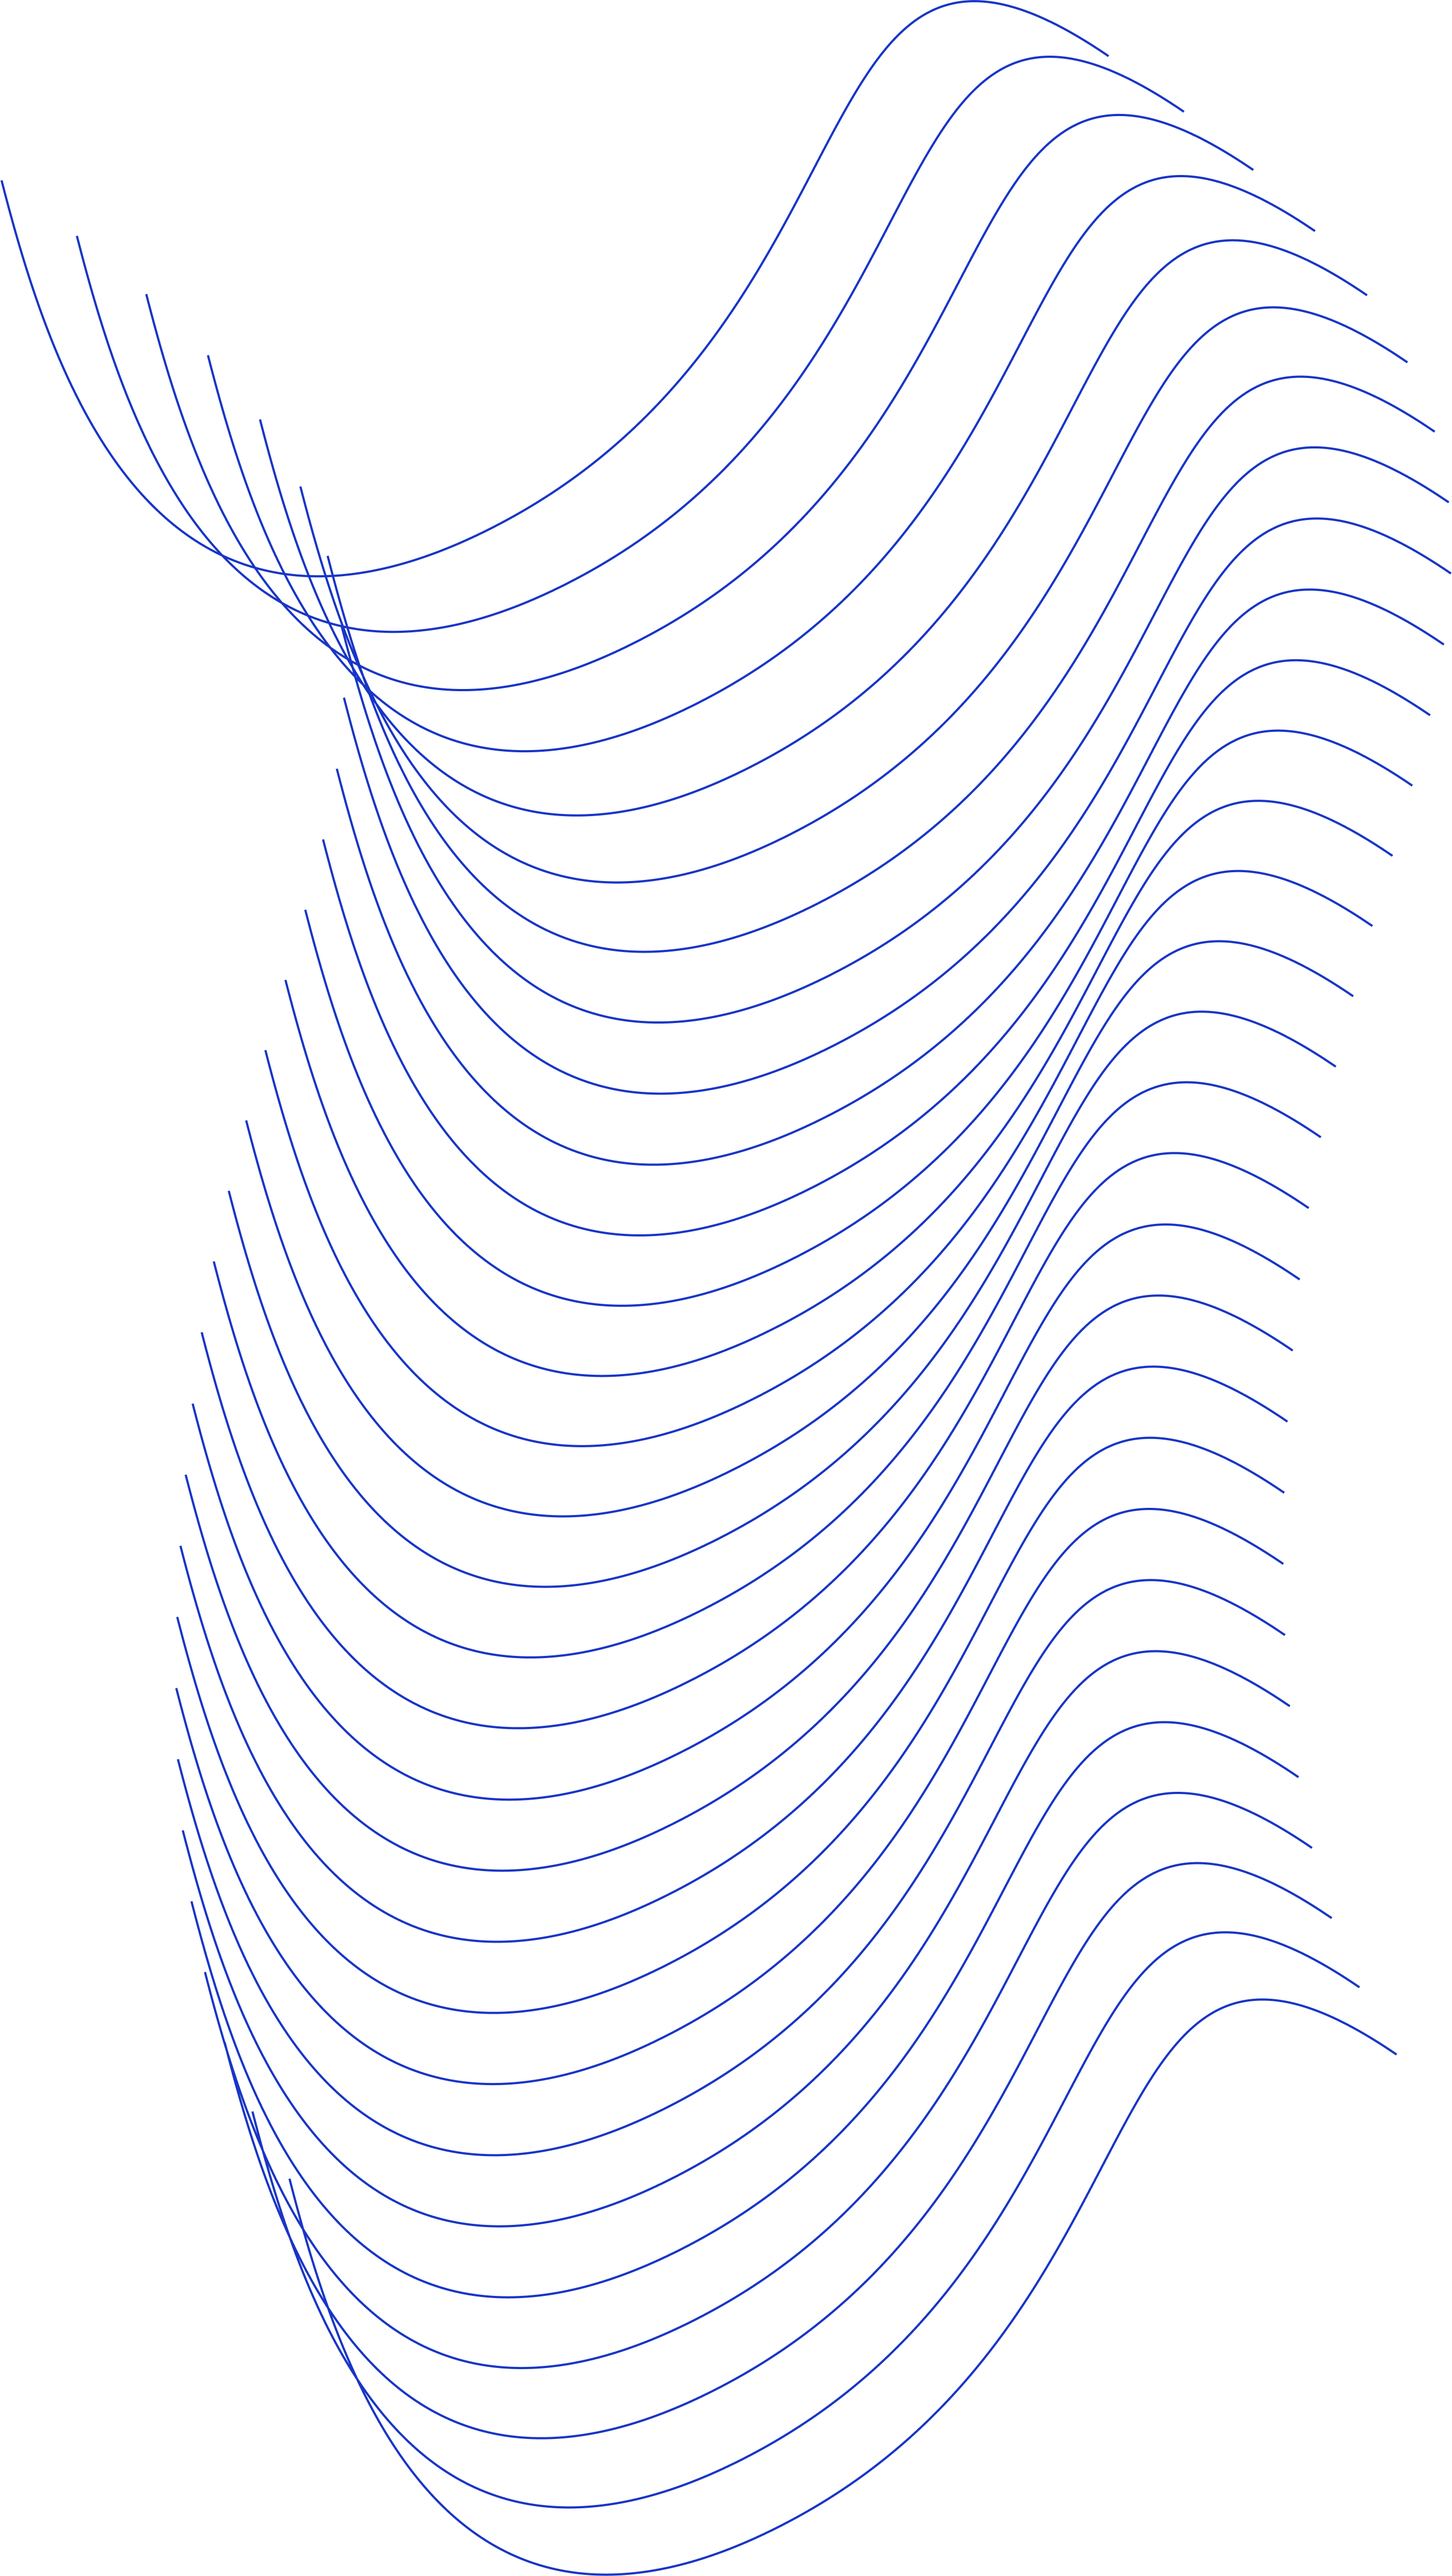
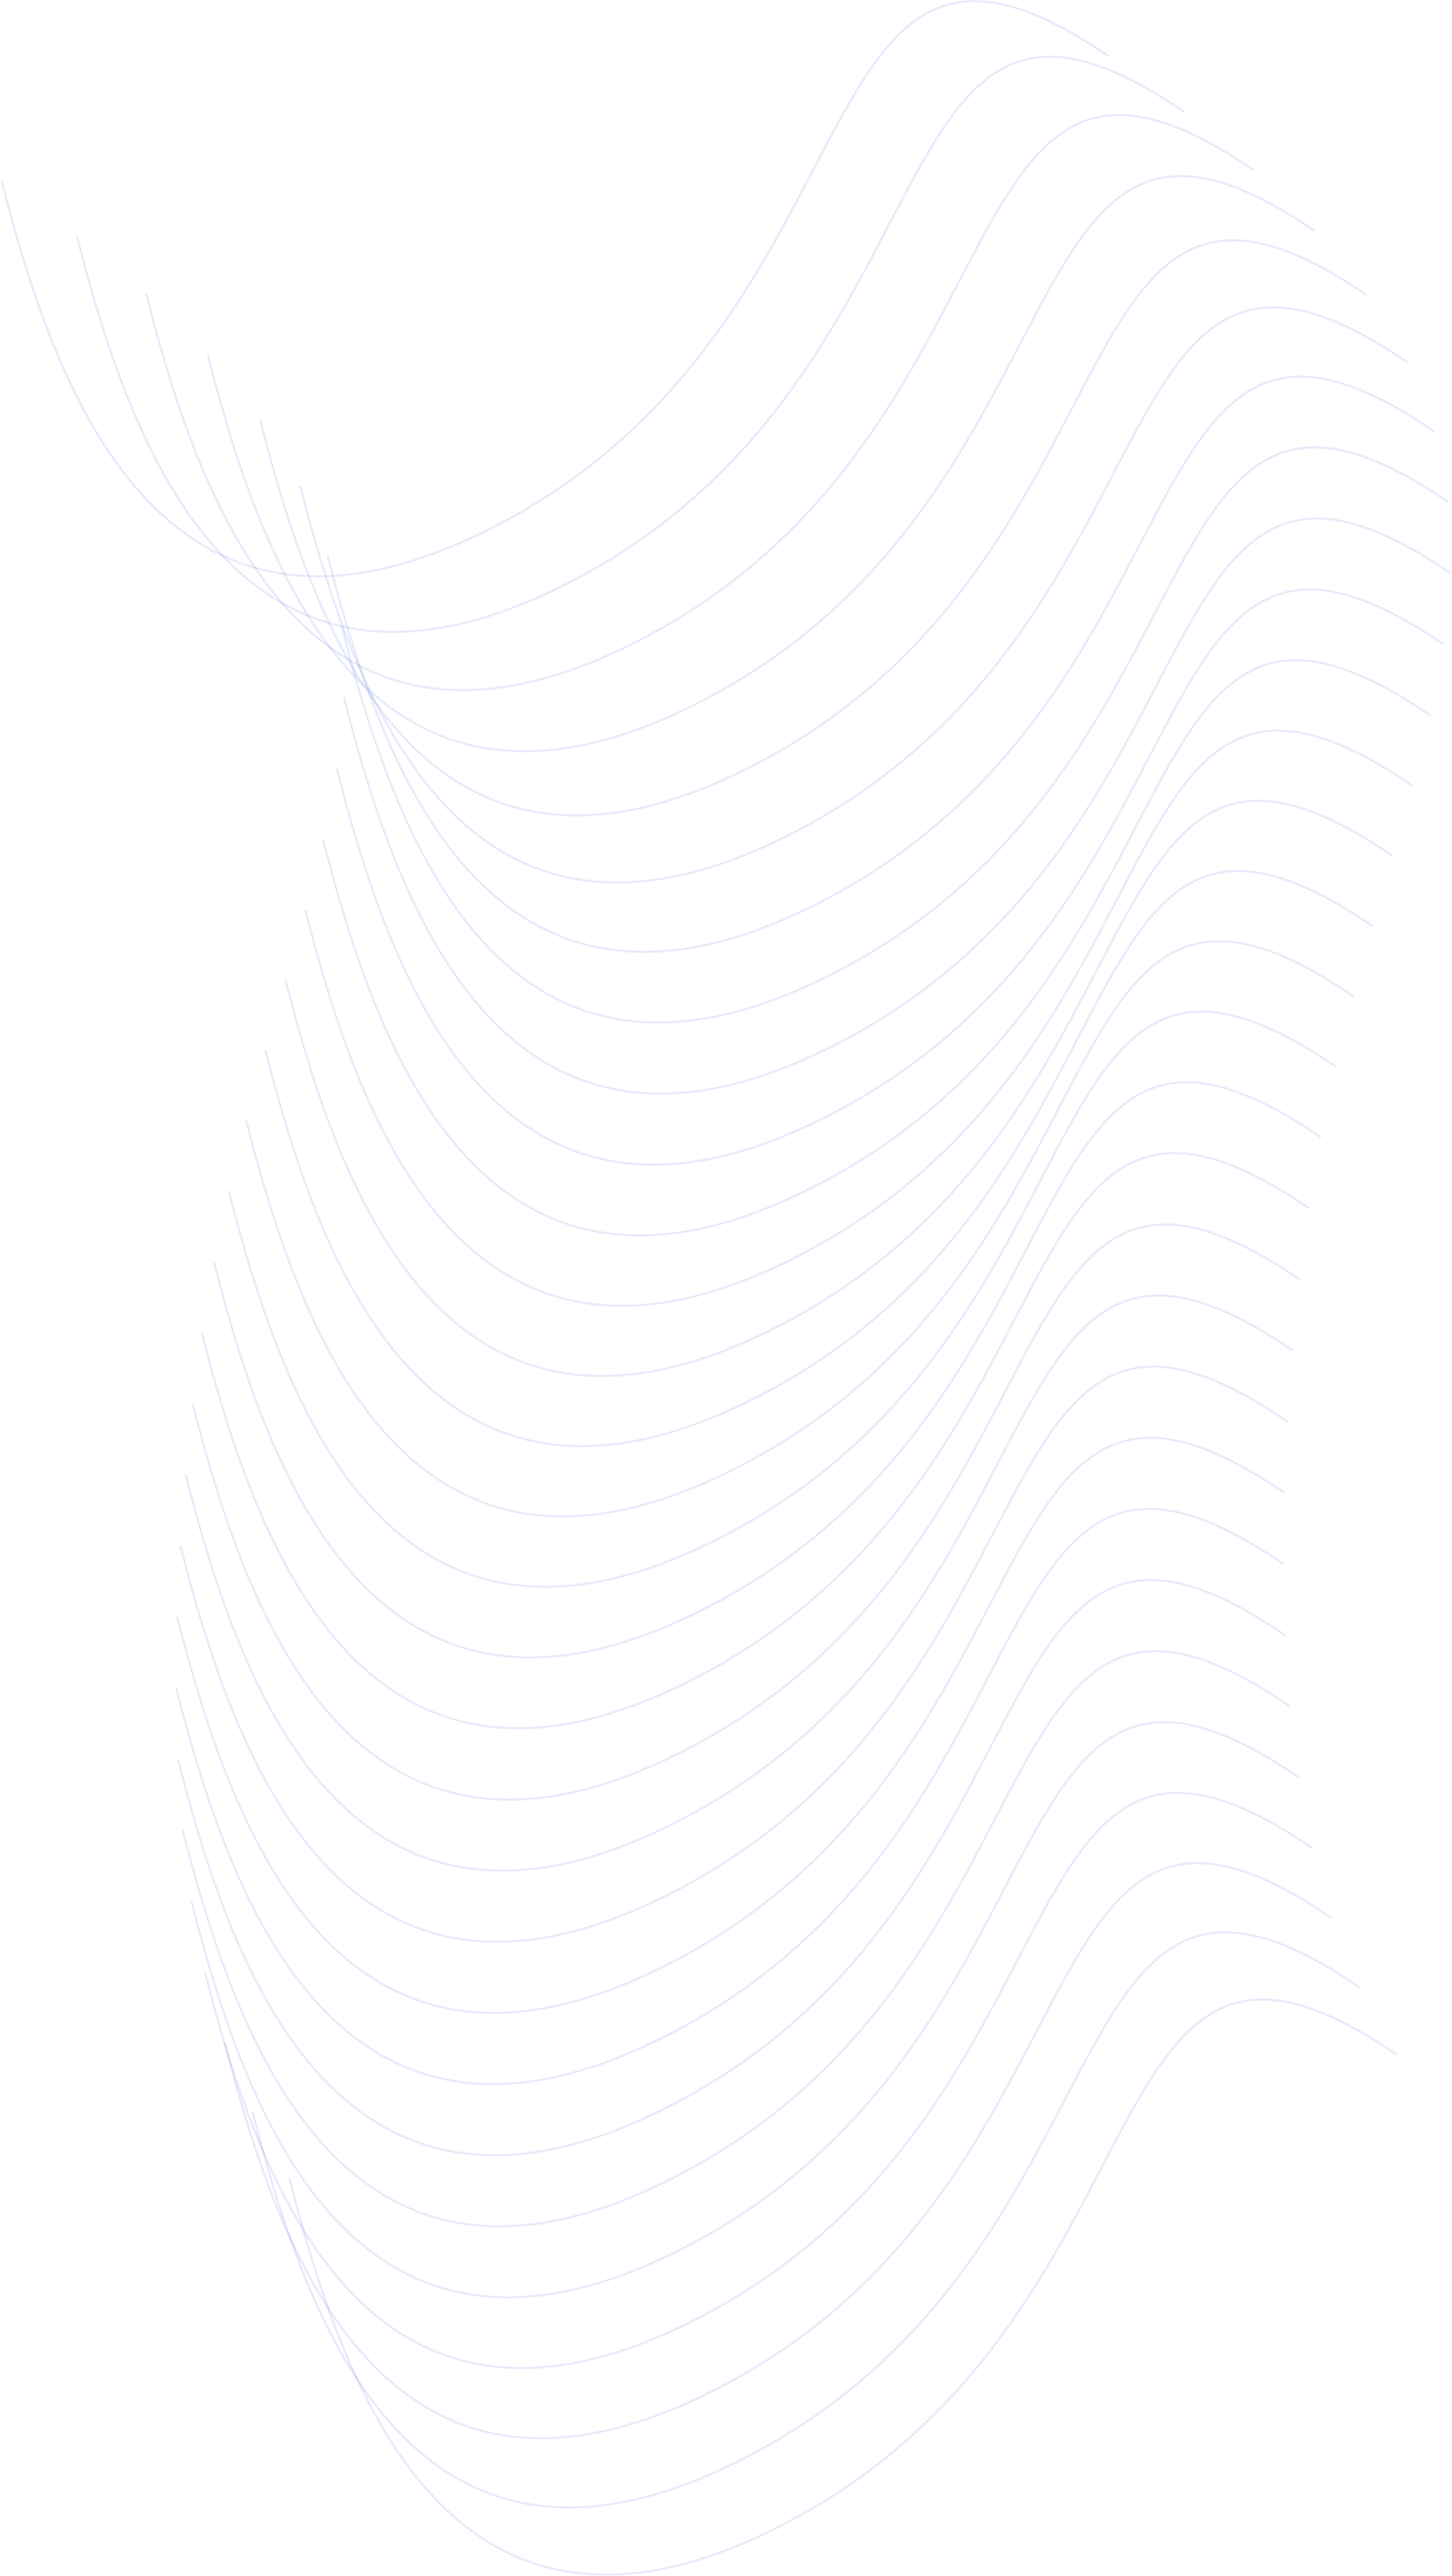
Backgrounds

diff --git a/src/app/_sections/hero/hero.tsx b/src/app/_sections/hero/hero.tsx
@@ -6,28 +6,28 @@ import { faFigma, faGithubSquare, faLinkedin } from '@fortawesome/free-brands-sv
 import { Button, IconButton } from '../../_design/button/button'
 import { Heading, Text } from '../../_design/text/text'
 import { heading, section, icons, occupation, blend, about, top, bottom } from './hero.css'
-import Image from 'next/image'
 
 export default function Hero() {
   return <section className={section}>
-    <Image className={blend} src={'/whiteBlend.png'} alt={'Blend'} width={0} height={0} />
-    <div className={heading}>
-      <Heading importance={1} colour='white'>{content.name}</Heading>
-      <div className={occupation}>
-        <Heading importance={2} colour='white'>{content.occupation[0]}</Heading>
-        <Heading importance={2} colour='white'>{content.occupation[1]}</Heading>
+    <div className={blend}>
+      <div className={heading}>
+        <Heading importance={1} colour='white'>{content.name}</Heading>
+        <div className={occupation}>
+          <Heading importance={2} colour='white'>{content.occupation[0]}</Heading>
+          <Heading importance={2} colour='white'>{content.occupation[1]}</Heading>
+        </div>
+        <Icons />
       </div>
-      <Icons />
-    </div>
 
-    <div className={about}>
-      <div className={top}>
-        <Heading importance={3} colour='white'>ABOUT ME</Heading>
-        <Button href='mailto:tyreece.jay@gmail.com'>Send me an email</Button>
-      </div>
-      <div className={bottom}>
-        <Text>{content.about[0]}</Text>
-        <Text>{content.about[1]}</Text>
+      <div className={about}>
+        <div className={top}>
+          <Heading importance={3} colour='white'>ABOUT ME</Heading>
+          <Button href='mailto:tyreece.jay@gmail.com'>Send me an email</Button>
+        </div>
+        <div className={bottom}>
+          <Text>{content.about[0]}</Text>
+          <Text>{content.about[1]}</Text>
+        </div>
       </div>
     </div>
   </section>

diff --git a/src/app/_sections/journey/journey.css.ts b/src/app/_sections/journey/journey.css.ts
@@ -2,43 +2,18 @@ import { theme } from '@/app/_design/theme.css'
 import { style } from '@vanilla-extract/css'
 
 export const section = style({
+  backgroundColor: theme.colour.black
+})
+
+export const topology = style({
+  backgroundImage: 'url(/whiteTopology.png)',
+  backgroundPosition: 'center',
+  backgroundSize: '200%',
   padding: '6rem 23rem 6rem 23rem',
   display: 'flex',
   gap: '3rem',
-  flexDirection: 'column',
-  backgroundColor: theme.colour.black,
-  '@media': {
-    'screen and (max-width: 1050px)': {
-      padding: '5rem 2vw 5rem 2vw'
-    }
-  }
+  flexDirection: 'column'
 })
-
-// export const section = style({
-//   height: '40vh',
-//   backgroundColor: theme.colour.white,
-//   display: 'flex',
-//   flexDirection: 'column',
-//   alignItems: 'center',
-//   justifyContent: 'center',
-//   overflow: 'clip'
-// })
-
-// export const journey = style({
-//   position: 'absolute',
-//   display: 'flex',
-//   flexDirection: 'row',
-//   alignItems: 'center',
-//   width: '80%',
-//   gap: '2rem'
-// })
-
-// export const blend = style({
-//   position: 'relative',
-//   opacity: '10%',
-//   width: '175%',
-//   height: 'auto'
-// })
 
 export const intro = style({
   width: '50%',

diff --git a/src/app/_sections/journey/journey.tsx b/src/app/_sections/journey/journey.tsx
@@ -1,7 +1,7 @@
 'use client'
 
 import React from 'react'
-import { card, cards, info, intro, section, text, heading, image } from './journey.css'
+import { card, cards, info, intro, section, text, heading, image, topology } from './journey.css'
 import { Heading, TextLink } from '@/app/_design/text/text'
 import { content, Journey as JourneyType } from '@/app/content'
 import { Text } from "@/app/_design/text/text"
@@ -9,8 +9,7 @@ import Image from 'next/image'
 
 export default function Journey() {
   return <section className={section}>
-    {/* <Image className={blend} src={'/blueBlend.png'} alt={'Blend'} width={0} height={0} /> */}
-    {/* <div className={journey}> */}
+    <div className={topology}>
     <div className={intro}>
       <Heading importance={3} colour='white'>MY JOURNEY</Heading>
       <Text>{content.journey.intro}</Text>
@@ -19,7 +18,7 @@ export default function Journey() {
       <JourneyCard journey={content.journey.experience} />
       <JourneyCard journey={content.journey.education} />
     </div>
-    {/* </div> */}
+    </div>
   </section>
 }
 

diff --git a/src/app/_sections/hero/hero.css.ts b/src/app/_sections/hero/hero.css.ts
@@ -1,25 +1,27 @@
 import { theme } from "@/app/_design/theme.css"
-import { style } from "@vanilla-extract/css"
+import { keyframes, style } from "@vanilla-extract/css"
+const gradiant = keyframes({
+  '0%': { backgroundPosition: '50% 55%' },
+  '50%': { backgroundPosition: '55% 50%' },
+  '100%': { backgroundPosition: '50% 55%' },
+})
 
 export const section = style({
-  height: '100vh',
-  backgroundColor: theme.colour.blue,
-  display: 'flex',
-  flexDirection: 'column',
-  alignItems: 'center',
-  justifyContent: 'center',
-  overflow: 'clip'
+  backgroundColor: theme.colour.blue
 })
 
 export const blend = style({
-  position: 'relative',
-  opacity: '15%',
-  width: '175%',
-  height: 'auto'
+  backgroundImage: 'url(/whiteBlend.png)',
+  backgroundPosition: 'center',
+  backgroundSize: '200%',
+  height: '100vh',
+  display: 'flex',
+  alignItems: 'center',
+  justifyContent: 'center',
+  animation: `${gradiant} 45s ease infinite`,
 })
 
 export const heading = style({
-  position: 'absolute',
   display: 'flex',
   flexDirection: 'column',
   alignItems: 'center',

diff --git a/src/app/_sections/how/how.tsx b/src/app/_sections/how/how.tsx
@@ -1,16 +1,14 @@
 'use client'
 
 import React from 'react'
-import { blend, buttons, section } from './how.css'
+import { blend, section } from './how.css'
 import { LargeButton } from '@/app/_design/button/button'
 import { faFigma, faGithub } from "@fortawesome/free-brands-svg-icons"
 import { Text } from "@/app/_design/text/text"
-import Image from 'next/image'
 
 export default function How() {
   return <section className={section}>
-    <Image className={blend} src={'/blueBlend.png'} alt={'Blend'} width={0} height={0} />
-    <div className={buttons}>
+    <div className={blend}>
       <LargeButton icon={faFigma} href='https://www.figma.com/design/IxI6aFBfIB8T9msBGShUxt/the-briefcase?node-id=0-1&t=a5xCnPY53bml0GhX-1'><Text style='bold'>The Figma design</Text></LargeButton>
       <LargeButton icon={faGithub} href='https://github.com/Tyreece-Jay/the-briefcase'><Text style='bold'>The GitHub repository</Text></LargeButton>
     </div>

diff --git a/src/app/_sections/how/how.css.ts b/src/app/_sections/how/how.css.ts
@@ -2,27 +2,19 @@ import { theme } from '@/app/_design/theme.css'
 import { style } from '@vanilla-extract/css'
 
 export const section = style({
-  height: '40vh',
-  backgroundColor: theme.colour.white,
-  display: 'flex',
-  flexDirection: 'column',
-  alignItems: 'center',
-  justifyContent: 'center',
-  overflow: 'clip'
-})
-
-export const buttons = style({
-  position: 'absolute',
-  display: 'flex',
-  flexDirection: 'row',
-  alignItems: 'center',
-  width: '62%',
-  gap: '2rem'
+  backgroundColor: theme.colour.white
 })
 
 export const blend = style({
-  position: 'relative',
-  opacity: '10%',
-  width: '175%',
-  height: 'auto'
+  backgroundImage: 'url(/blueBlend.png)',
+  backgroundPosition: 'center',
+  backgroundSize: '200%',
+  padding: '6rem 23rem 6rem 23rem',
+  display: 'flex',
+  gap: '3rem',
+  '@media': {
+    'screen and (max-width: 900px)': {
+      flexDirection: 'column'
+    }
+  }
 })
